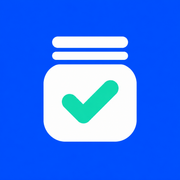
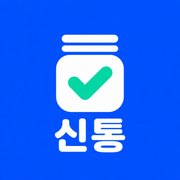
앱 이름을 잼통 신고 센터에서 신통으로 변경
자매 앱(임통·통통·속통)처럼 '~통' 이름으로 맞춘다. 신고하는 통이자
'신통하다'는 뜻. 앱 이름·PWA 이름·안내 문구·공유 카드·로고·아이콘을 함께 바꾼다.
Cloud Monitoring 경보 이름은 실제 리소스 이름이라 문서에서도 그대로 둔다.

Changed region(s): [[0.2222, 0.1667, 0.7778, 0.8611]]

diff --git a/public/sw.js b/public/sw.js
@@ -1,5 +1,5 @@
 /*
- * 잼통 신고 센터 서비스 워커.
+ * 신통 서비스 워커.
  *
  * 하는 일은 하나다: 네트워크가 끊겼을 때 페이지 이동에 빈 화면 대신 안내를 보인다.
  *
@@ -12,7 +12,7 @@
 const OFFLINE_HTML = `<!doctype html>
 <html lang="ko"><head><meta charset="utf-8">
 <meta name="viewport" content="width=device-width,initial-scale=1">
-<title>연결 끊김 · 잼통 신고 센터</title>
+<title>연결 끊김 · 신통</title>
 <style>
   body{margin:0;min-height:100vh;display:flex;align-items:center;justify-content:center;
     background:#fdfcfc;color:#000;font-family:-apple-system,BlinkMacSystemFont,"Apple SD Gothic Neo",sans-serif}
@@ -23,7 +23,7 @@ const OFFLINE_HTML = `<!doctype html>
 </style></head>
 <body><main>
   <h1>인터넷 연결이 끊겼습니다</h1>
-  <p>잼통 신고 센터는 최신 작업과 판정을 보여 주기 위해 연결이 필요합니다. 연결된 뒤 다시 시도해 주세요.</p>
+  <p>신통은 최신 작업과 판정을 보여 주기 위해 연결이 필요합니다. 연결된 뒤 다시 시도해 주세요.</p>
   <button onclick="location.reload()">다시 시도</button>
 </main></body></html>`;
 
@@ -42,7 +42,7 @@ self.addEventListener("push", (event) => {
     payload = {};
   }
   const data = payload.data || payload;
-  const title = data.title || (payload.notification && payload.notification.title) || "잼통 신고 센터";
+  const title = data.title || (payload.notification && payload.notification.title) || "신통";
   event.waitUntil(
     self.registration.showNotification(title, {
       body: data.body || (payload.notification && payload.notification.body) || "",

diff --git a/src/app/guide/Guide.tsx b/src/app/guide/Guide.tsx
@@ -37,7 +37,7 @@ export function Guide() {
     <div className="mx-auto max-w-3xl">
       <p className="text-[12px] font-semibold tracking-wide text-smoke">사용법</p>
       <h1 className="mt-2 text-[36px] font-light leading-[1.15] tracking-[-0.03em] sm:text-[44px]">
-        잼통 신고 센터
+        신통
         <br />
         <span className="font-semibold">이렇게 씁니다</span>
       </h1>
@@ -129,7 +129,7 @@ function ReportSteps() {
       <Step
         n={1}
         title="게시물 링크를 복사해요"
-        tip="안드로이드에서 앱을 설치했다면 공유 목록에서 바로 '잼통 신고 센터'를 고를 수 있어요."
+        tip="안드로이드에서 앱을 설치했다면 공유 목록에서 바로 '신통'을 고를 수 있어요."
         phone={
           <Phone bar={<><span>instagram</span><span>···</span></>}>
             <Body>
@@ -154,7 +154,7 @@ function ReportSteps() {
         title={<>아래 <b>제보</b> 탭을 눌러요</>}
         tip="연결해 두면 내 제보와 처리 결과가 계속 남아요."
         phone={
-          <Phone bar={<span>잼통 신고 센터</span>} tabs={["홈", "제보", "MY"]} on={1}>
+          <Phone bar={<span>신통</span>} tabs={["홈", "제보", "MY"]} on={1}>
             <Body className="items-center justify-center gap-3 text-center">
               <span className="text-[30px]">🔒</span>
               <span className="text-[12px] font-semibold">제보하려면<br />구글 계정을 연결하세요</span>

diff --git a/src/app/manifest.ts b/src/app/manifest.ts
@@ -6,7 +6,7 @@ import { APP_NAME, APP_DESCRIPTION } from "@/lib/brand";
  *
  * 설치 조건(Chrome): name·short_name, start_url, display, 192px·512px PNG 아이콘,
  * 그리고 서비스 워커(public/sw.js). 아이콘이 없으면 "this app cannot be installed"가 뜬다.
- * 아이콘은 신고 센터의 파란 잼통+체크 로고다. maskable은 안드로이드가
+ * 아이콘은 신통의 파란 잼통+체크 로고다. maskable은 안드로이드가
  * 원·둥근 사각으로 잘라 써도 심볼이 남도록 중앙 안전 영역에 배치했다.
  *
  * share_target은 편의 기능이다. 안드로이드에서 앱을 설치하면 인스타그램의
@@ -18,7 +18,7 @@ export default function manifest(): MetadataRoute.Manifest {
   return {
     id: "/",
     name: APP_NAME,
-    short_name: "신고 센터",
+    short_name: "신통",
     description: APP_DESCRIPTION,
     start_url: "/",
     scope: "/",

diff --git a/src/app/privacy/page.tsx b/src/app/privacy/page.tsx
@@ -17,7 +17,7 @@ const CONTACT = "etainclub@gmail.com";
 export default function PrivacyPage() {
   return (
     <Shell>
-      <Heading lede="잼통 신고 센터가 어떤 정보를 왜 모으고, 언제 지우는지 적었습니다.">개인정보 처리방침</Heading>
+      <Heading lede="신통이 어떤 정보를 왜 모으고, 언제 지우는지 적었습니다.">개인정보 처리방침</Heading>
       <div className="max-w-[40em] space-y-8 text-[15px] leading-relaxed text-graphite">
         <Section title="1. 모으는 정보">
           <ul className="list-disc space-y-1.5 pl-5">

diff --git a/src/components/Shell.tsx b/src/components/Shell.tsx
@@ -60,9 +60,9 @@ export function Shell({
           <Link href="/" className="shrink-0 rounded focus-visible:outline-2 focus-visible:outline-offset-4">
             <Image
               src={logo}
-              alt="잼통 신고 센터"
-              className="h-auto w-[160px] sm:w-[180px]"
-              sizes="(min-width: 640px) 180px, 160px"
+              alt="신통"
+              className="h-auto w-[100px] sm:w-[110px]"
+              sizes="(min-width: 640px) 110px, 100px"
               loading="eager"
             />
           </Link>

diff --git a/src/lib/gaps/github.ts b/src/lib/gaps/github.ts
@@ -18,7 +18,7 @@ export interface GapForIssue {
 
 export function issueBody(gap: GapForIssue): string {
   return [
-    `잼통 신고 센터가 **잼통에 근거가 없어** 판정하지 못한 주제입니다.`,
+    `신통이 **잼통에 근거가 없어** 판정하지 못한 주제입니다.`,
     "",
     `- 주제: ${gap.topic}`,
     `- 등장 게시물: ${gap.count}건`,

diff --git a/src/lib/brand.ts b/src/lib/brand.ts
@@ -1,3 +1,3 @@
-export const APP_NAME = "잼통 신고 센터";
+export const APP_NAME = "신통";
 export const APP_DESCRIPTION =
   "인스타그램의 이재명 정부 정책 관련 거짓 정보를 신고하고, 근거를 확인해 팩트 체크 댓글을 함께 게시하는 서비스입니다.";

diff --git a/src/app/layout.tsx b/src/app/layout.tsx
@@ -42,7 +42,7 @@ export const metadata: Metadata = {
       width: 1200,
       height: 630,
       type: "image/png",
-      alt: "잼통 신고 센터 — 파란 잼통과 민트색 체크 로고",
+      alt: "신통 — 파란 잼통과 민트색 체크 로고",
     }],
   },
   twitter: {

diff --git a/assets/brand/report-center-brand.md b/assets/brand/report-center-brand.md
@@ -1,4 +1,22 @@
-# 잼통 신고 센터 — A안
+# 신통 — 브랜드 이미지
+
+2026-10-22: built-in image_gen으로 기존 파란 잼통·민트 체크 디자인을 유지하며 이름을 `신통`으로 바꿨다. 헤더 로고와 공유 카드의 전체 문구를 교체하고 앱 아이콘에도 흰색 `신통`을 추가했다. 아래 파일 경로는 기존 앱 참조와의 호환을 위해 유지한다. 원본과 크기별 결과물은 `scripts/build-brand-assets.mjs`로 함께 갱신한다.
+
+## 신통 생성 프롬프트
+
+### 헤더 로고
+
+Use case: text-localization. Asset type: transparent website header logo. Edit target: supplied horizontal logo. Replace the entire Korean wordmark "잼통 신고 센터" with exactly "신통" (two syllables 신 통) in the same bold rounded Korean sans serif, cobalt blue. Preserve the exact cobalt jam jar with mint checkmark at left, its two lid bars, silhouette and visual style. One compact horizontal lockup, jar at left and 신통 at right with balanced spacing and heights. Genuinely transparent background, tightly framed with modest clearspace. No other text, no mockup, no shadow, no new symbols.
+
+### 설치 아이콘
+
+Use case: precise-object-edit. Asset type: final square app icon for renamed Korean app 신통. Edit target: supplied app icon. Preserve cobalt blue edge-to-edge square background, white jam jar silhouette, two white lid bars, mint checkmark, crisp flat style. Scale the existing jar mark down slightly and place the exact Korean name "신통" in bold white rounded sans serif directly beneath jar, optically centered. Two syllables exactly 신 통, very legible. Both complete jar and name must fit inside central 68 percent safe area for OS masking, comfortable space between jar and text. No other words, no rounded outside corners, no mockup, no gradient, no shadow.
+
+### 링크 공유 카드
+
+Use case: text-localization. Asset type: final social link sharing card, landscape 1200:630 aspect. Edit target: supplied sharing image. Replace complete Korean wordmark "잼통 신고 센터" with exactly "신통" (two syllables 신 통) in matching bold rounded Korean sans serif, cobalt blue. Preserve exact cobalt jam jar with mint checkmark, white center, two lid bars. Center a balanced horizontal lockup of jar at left and 신통 at right, large and legible with generous margins. Keep clean warm white background and subtle pale blue curved corner accents. No extra text, slogans, symbols, mockups or shadows.
+
+## 기존 A안 생성 기록
 
 생성 방식: built-in image_gen. 승인된 파란 잼통+민트 체크 시안에서 로고와 아이콘을 각각 분리해 생성했다.
 

diff --git a/README.md b/README.md
@@ -1,4 +1,4 @@
-# 잼통 신고 센터 (insta-factbot)
+# 신통 (insta-factbot)
 
 인스타그램의 정부 정책 주장을 [잼통](https://jamtong.kr) 근거와 대조하고, 여러 운영자가 근거 안내 댓글을
 나눠 게시하는 웹앱입니다. 설계는 `docs/design.md`, 잼통에 먼저 채울 자료는 `docs/jamtong-content-gaps.md`에 있습니다.

diff --git a/docs/design.md b/docs/design.md
@@ -1,4 +1,4 @@
-# 잼통 신고 센터 (insta-factbot) — MVP 설계
+# 신통 (insta-factbot) — MVP 설계
 
 설계 기준일: 2026-10-08
 기준 자료: `~/devel-src/jamtong` v0.33.0
